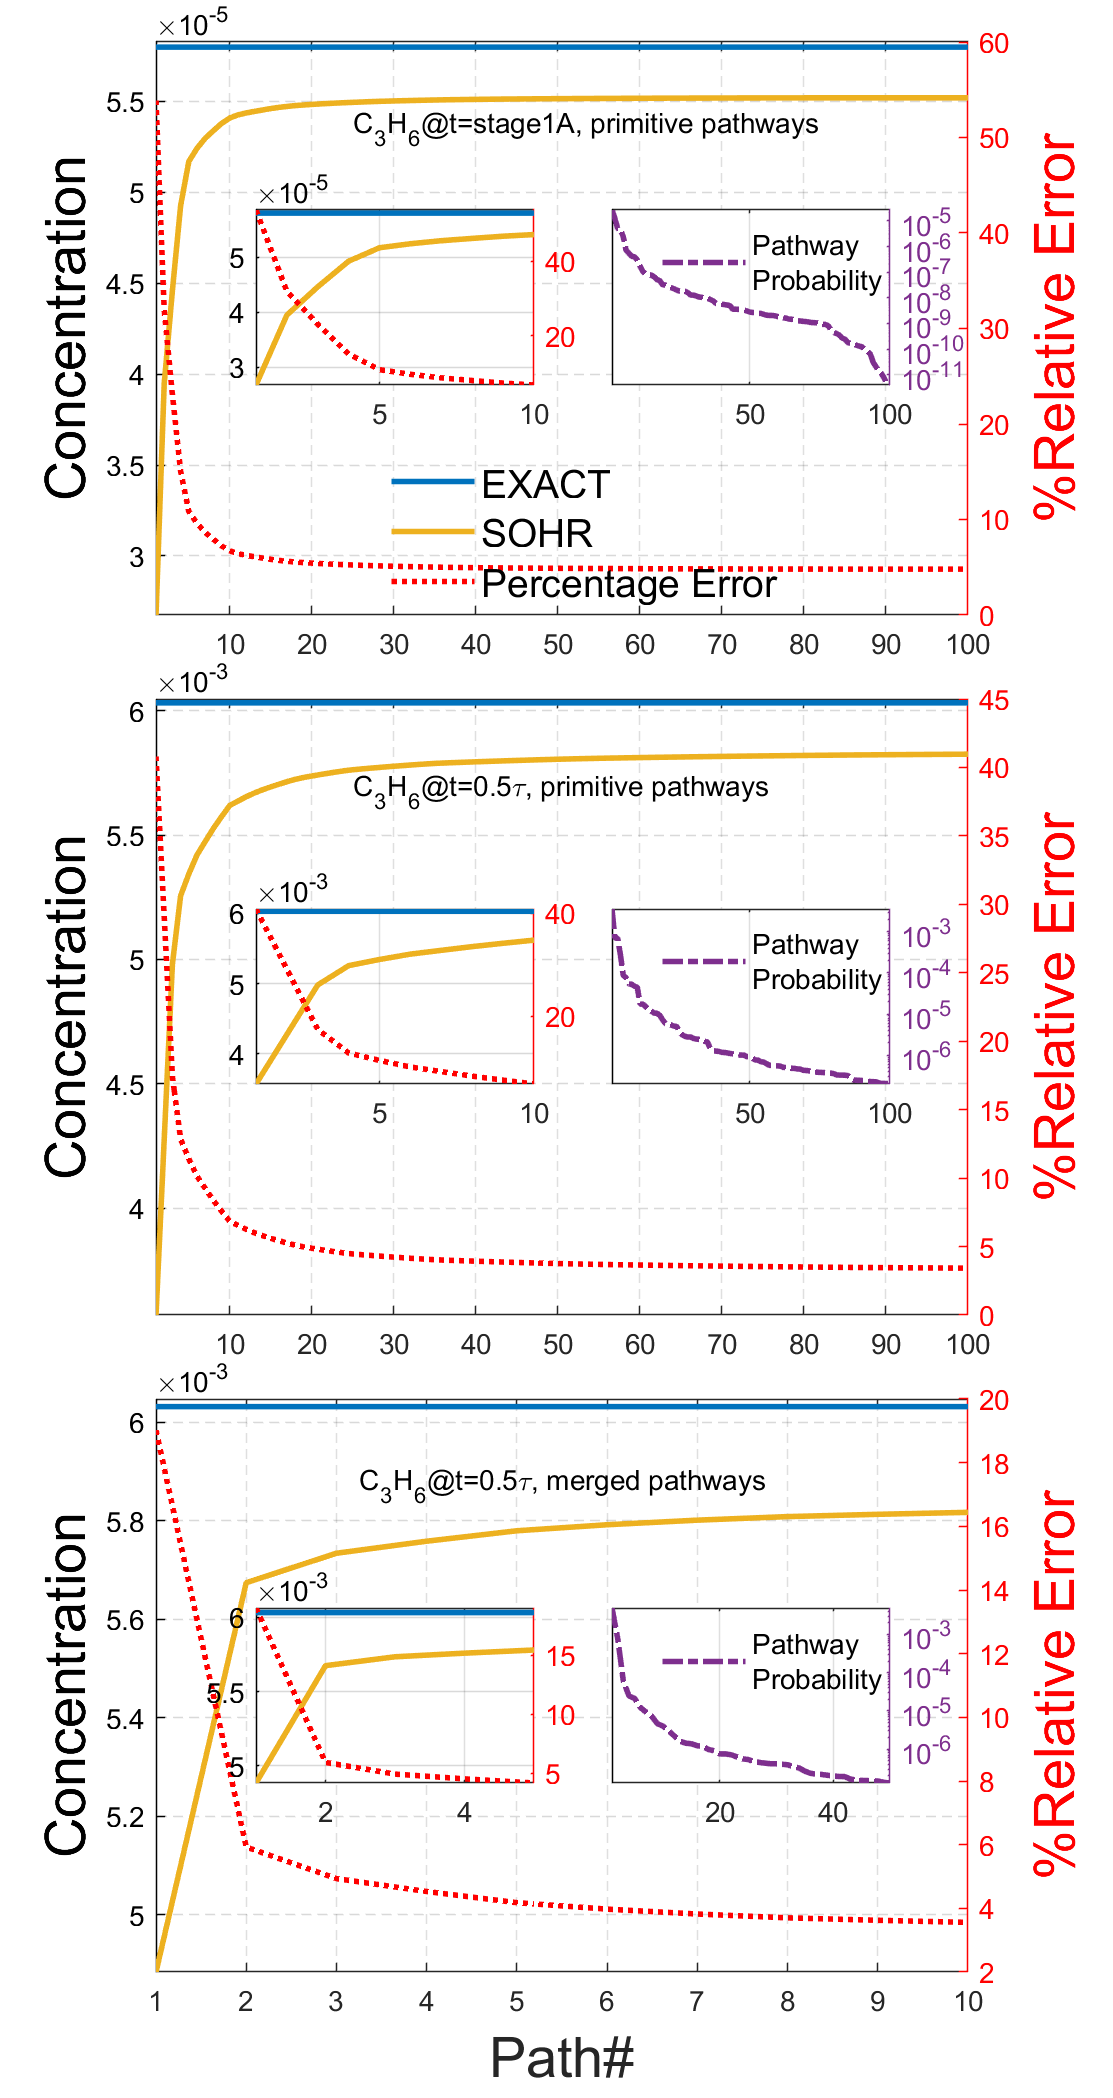
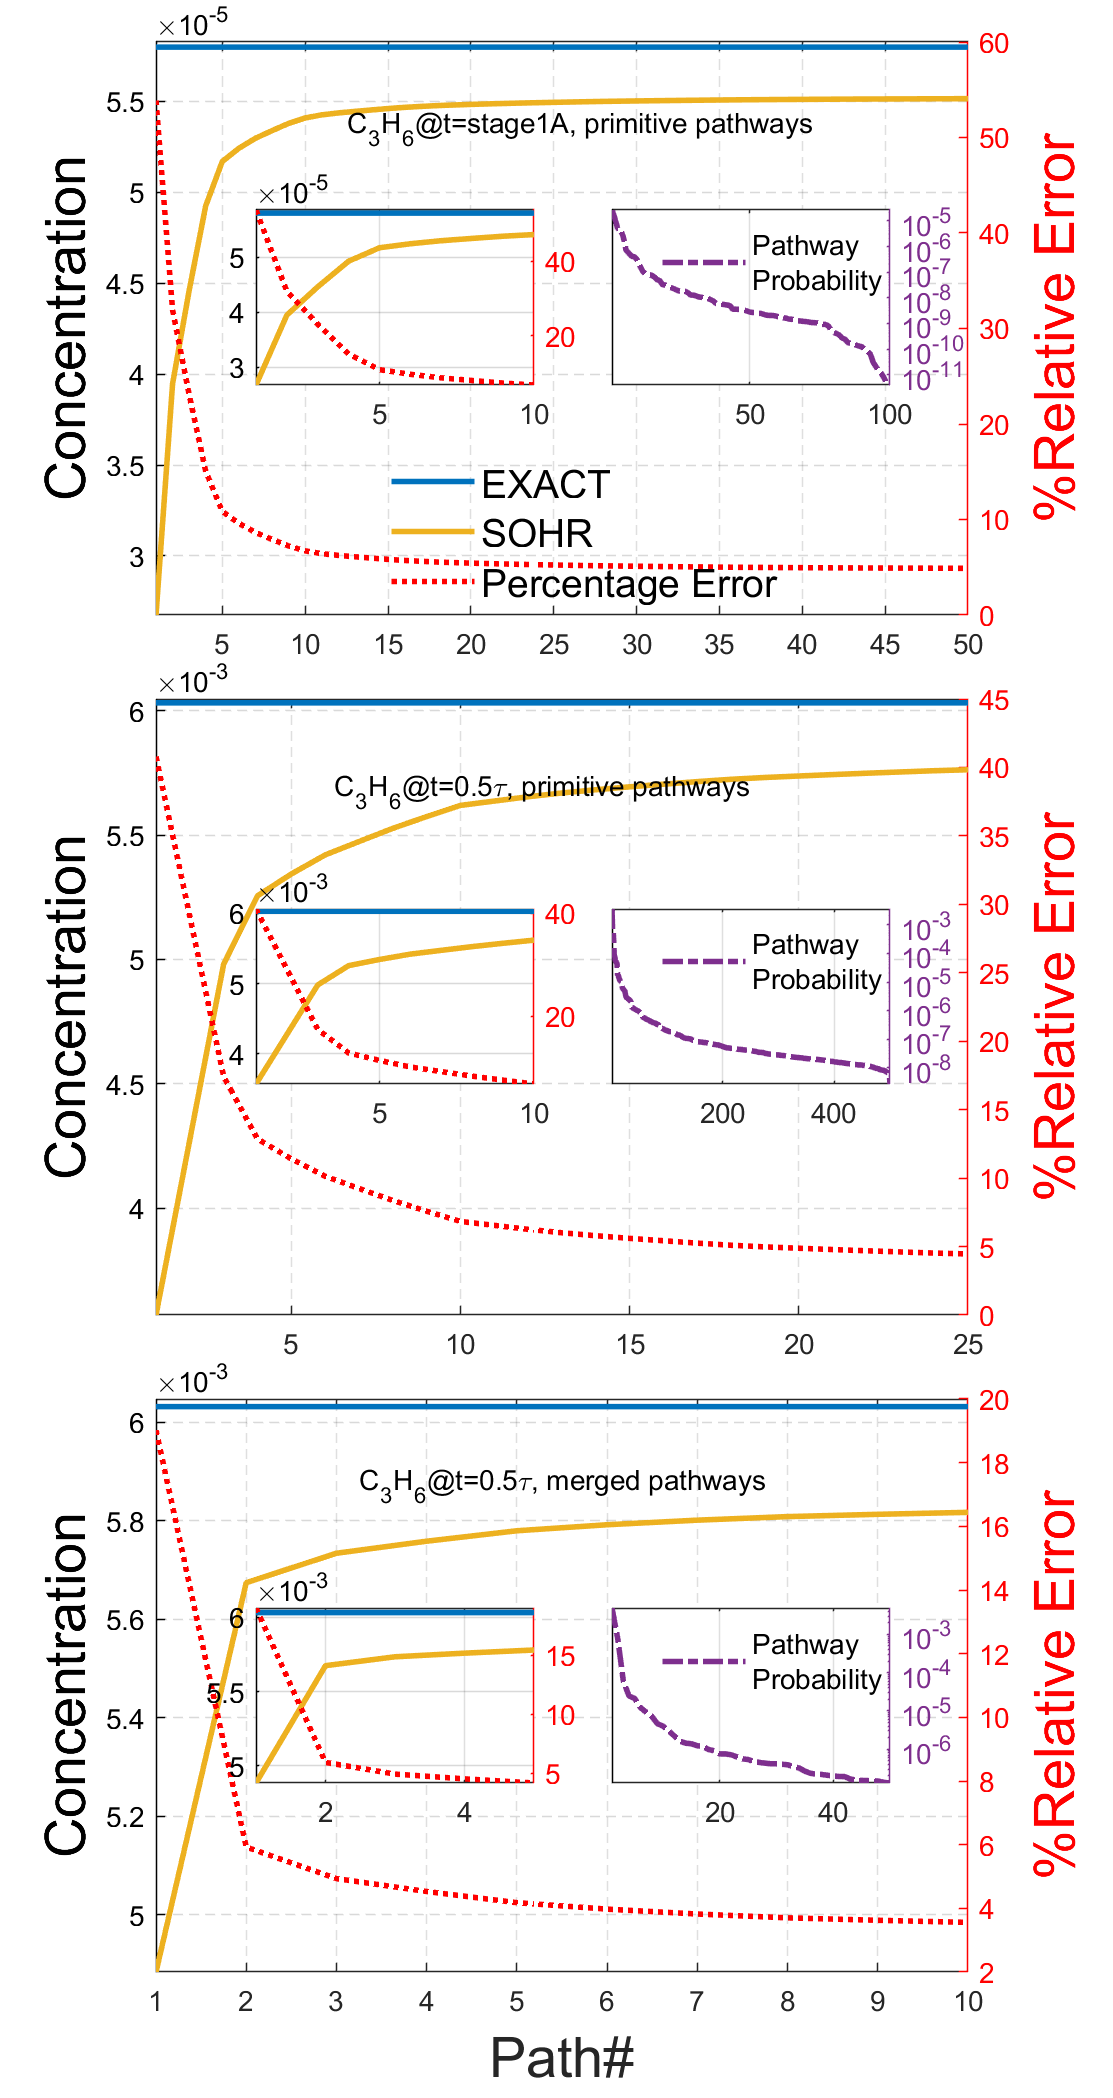
minor

diff --git a/theory/misc/trajectory_convergence/trajectory_convergence_3in1_3.m b/theory/misc/trajectory_convergence/trajectory_convergence_3in1_3.m
@@ -27,7 +27,7 @@ end_t1 = '0.25718313951098054';
 n_path1 = '100';
 species_path1 = '';
 %% index, delta, every settings
-end_idx1_1 = 100;
+end_idx1_1 = 50;
 delta1_1 = 1;
 end_idx1_2 = 10;
 delta1_2 = 1;
@@ -199,11 +199,11 @@ end_t2 = '0.5';
 n_path2 = '500';
 species_path2 = '';
 %% index, delta, every settings
-end_idx2_1 = 100;
+end_idx2_1 = 25;
 delta2_1 = 1;
 end_idx2_2 = 10;
 delta2_2 = 1;
-end_idx2_3 = 100;
+end_idx2_3 = 500;
 delta2_3 = 1;
 
 %% const concentration at a time
